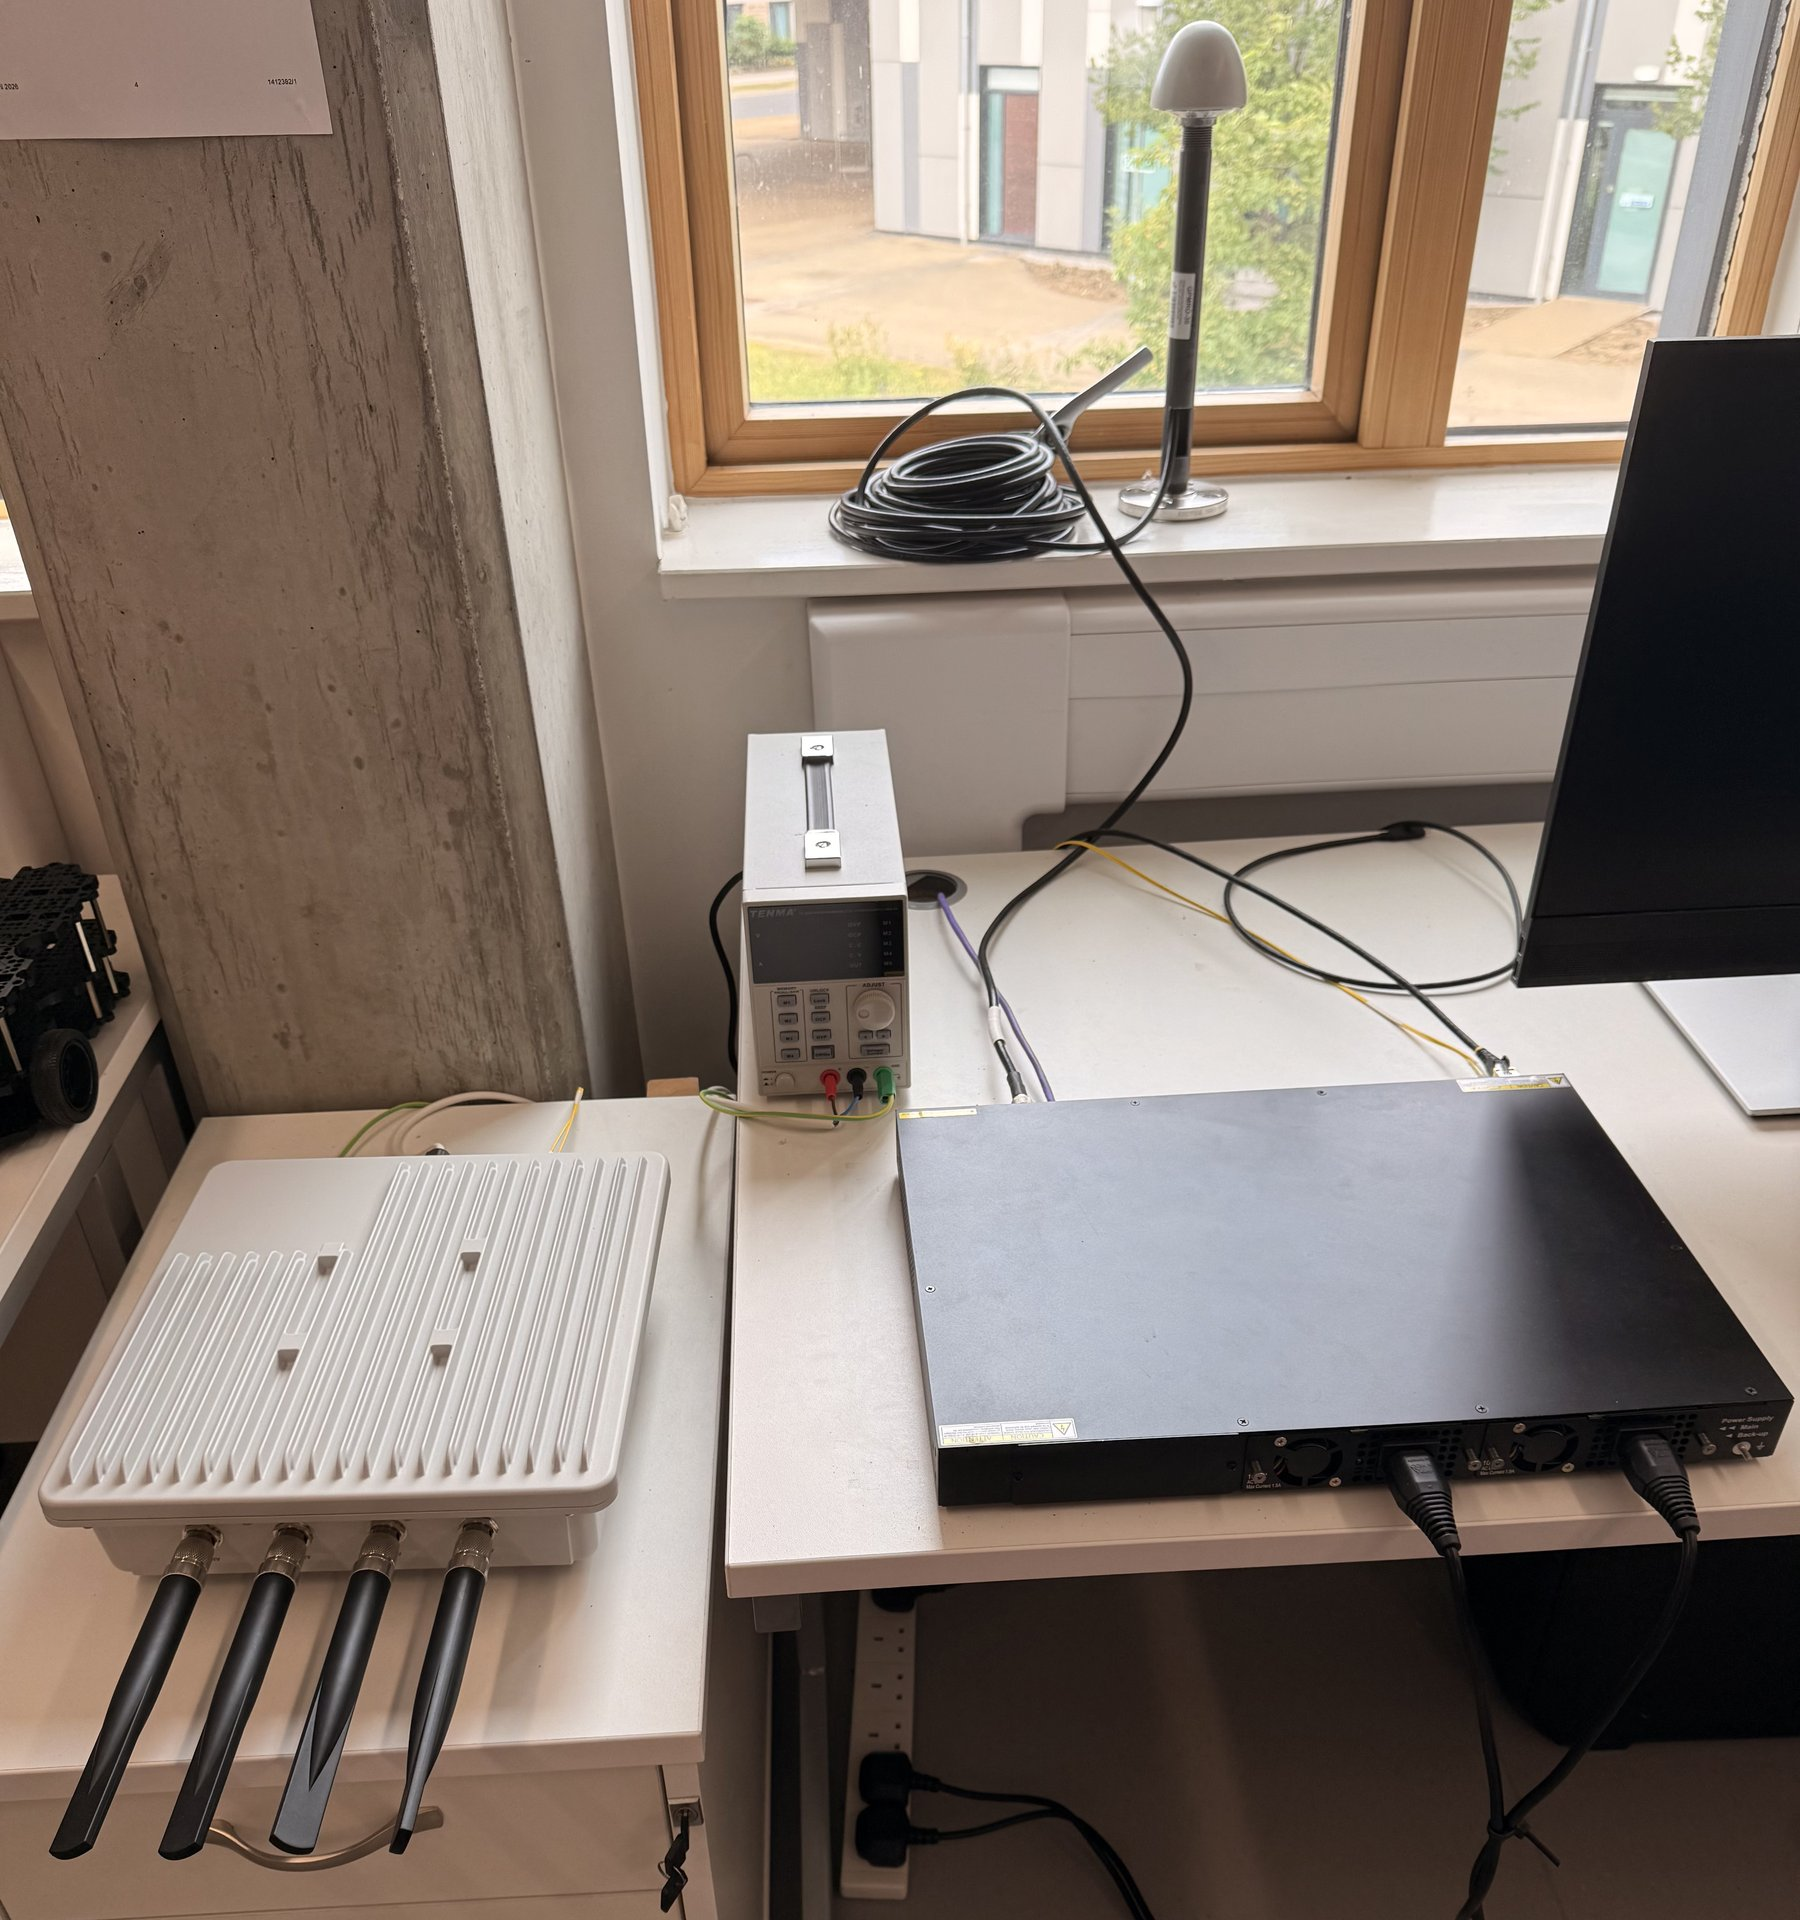
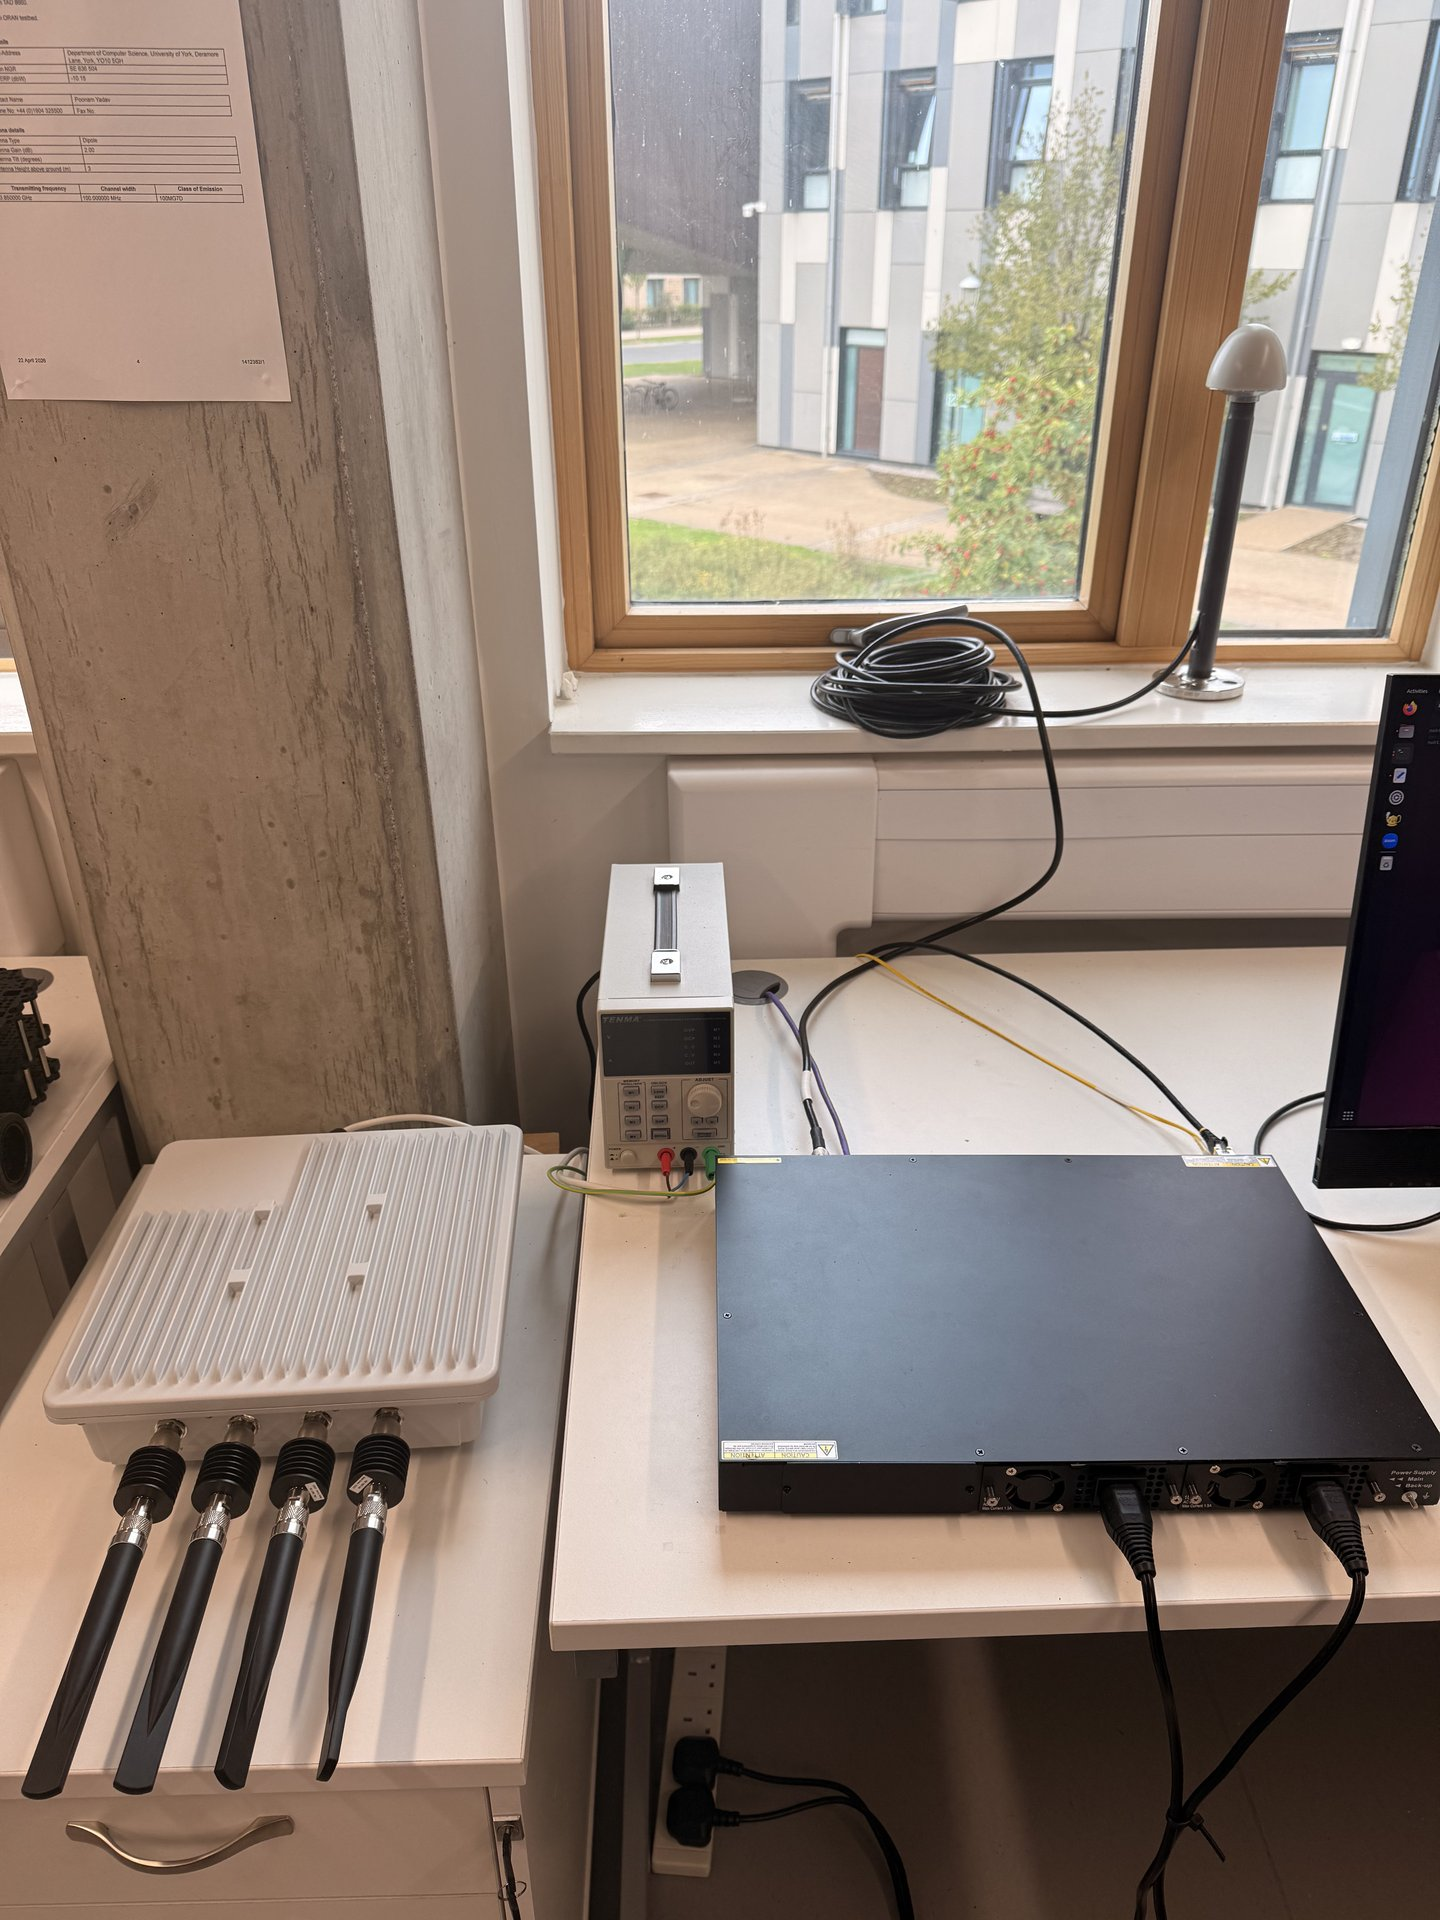
Add Split 7.2 facility images

diff --git a/facilities.md b/facilities.md
@@ -50,6 +50,7 @@ wide: true
       <h4 id="split-7-2-title">Split 7.2</h4>
       <div class="testbed-specs"><div><span>gNB stack</span><strong>OCUDU</strong></div><div><span>Radio unit</span><strong>Benetel RAN650</strong></div><div><span>Clock distribution</span><strong>FibroLAN Falcon-RX/812/G</strong></div></div>
       <figure class="facility-figure"><img src="{{ '/img/5g-split72.jpg' | relative_url }}" alt="Open-RAN Split 7.2 testbed" loading="lazy" {% include image-srcset.html src='/img/5g-split72.jpg' sizes="(max-width: 767px) calc(100vw - 30px), 1110px" %}><figcaption>The Open-RAN Split 7.2 testbed.</figcaption></figure>
+      <div class="facility-gallery"><figure><img src="{{ '/img/5g-split72-ru.jpg' | relative_url }}" alt="Benetel radio unit in the Open-RAN Split 7.2 testbed" loading="lazy" {% include image-srcset.html src='/img/5g-split72-ru.jpg' sizes="(max-width: 767px) calc(100vw - 30px), 740px" %}><figcaption>The Benetel RAN650 radio unit.</figcaption></figure><figure><img src="{{ '/img/5g-split72-switch.jpg' | relative_url }}" alt="Network switch used in the Open-RAN Split 7.2 testbed" loading="lazy" {% include image-srcset.html src='/img/5g-split72-switch.jpg' sizes="(max-width: 767px) calc(100vw - 30px), 370px" %}><figcaption>Switching and clock-distribution hardware.</figcaption></figure></div>
     </section>
   </section>
   <section class="facility-category" aria-labelledby="ai-ran-title">
